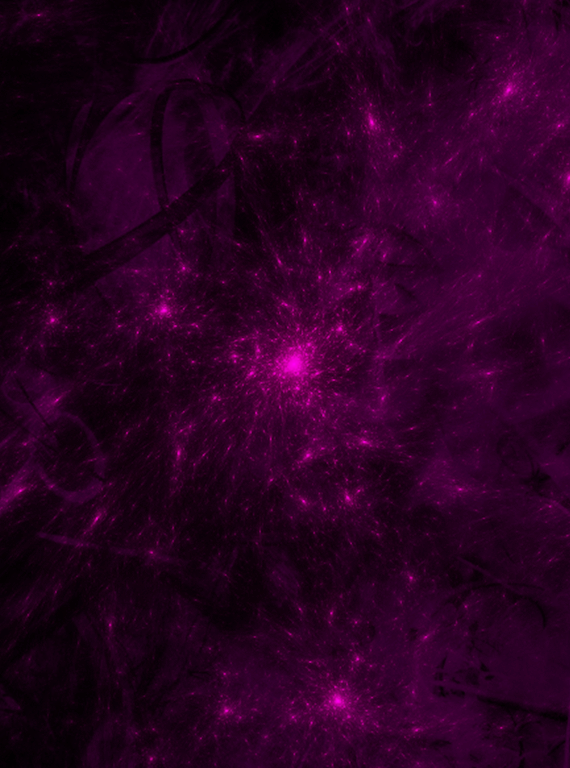
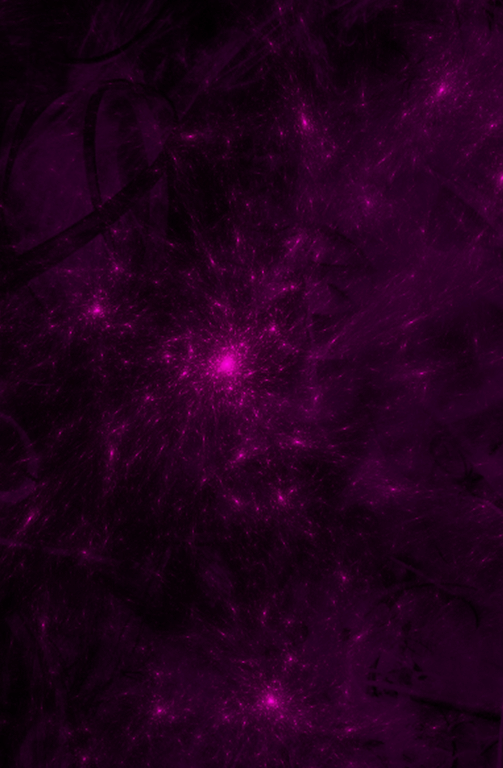
version 0.9.9499

diff --git a/style.css b/style.css
@@ -83,7 +83,7 @@ body{
     align-items: center;
     height: 100vh;
     flex-direction: column;
-    background: url("imgs/rtf.png");
+    background: url("imgs/fundo.png");
     background-repeat: no-repeat;
     background-size: cover;
     background-attachment: fixed;
@@ -148,7 +148,7 @@ body{
     align-items: center;
     height: 100vh;
     flex-direction: column;
-    background: url("imgs/rtf.png");
+    background: url("imgs/fundo.png");
     background-repeat: no-repeat;
     background-size: cover;
     background-attachment: fixed;

diff --git a/pages/style-jogo.css b/pages/style-jogo.css
@@ -1867,5 +1867,7 @@ span.material-symbols-outlined{
     color: rgb(228, 27, 27, 1);
     text-shadow: none;
 }
+
+
 }
 
